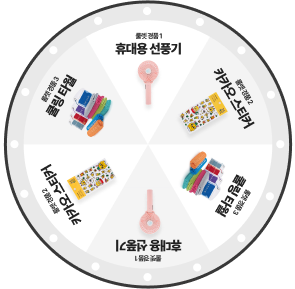
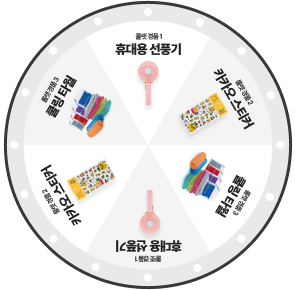
vxcvxcv

diff --git a/index.html b/index.html
@@ -187,7 +187,7 @@
                         <div class="rouletterArea">
                             <div class="rouletterImg">
                                 <!-- [전달사항] 이미지 변경예정 -->
-                                <div class="rouletterEl"><img src="assets/images/img_rouletterEl.svg" alt="룰렛이미지"></div>
+                                <div class="rouletterEl"><img src="assets/images/img_rouletterEl.png" alt="룰렛이미지"></div>
                             </div>
                             <div class="rouletterPin"></div>
                             <button class="btnRouletter">START</button>

diff --git a/roulette.html b/roulette.html
@@ -187,7 +187,7 @@
                         <div class="rouletterArea">
                             <div class="rouletterImg">
                                 <!-- [전달사항] 이미지 변경예정 -->
-                                <div class="rouletterEl"><img src="assets/images/img_rouletterEl.svg" alt="룰렛이미지"></div>
+                                <div class="rouletterEl"><img src="assets/images/img_rouletterEl.png" alt="룰렛이미지"></div>
                             </div>
                             <div class="rouletterPin"></div>
                             <button class="btnRouletter">START</button>
